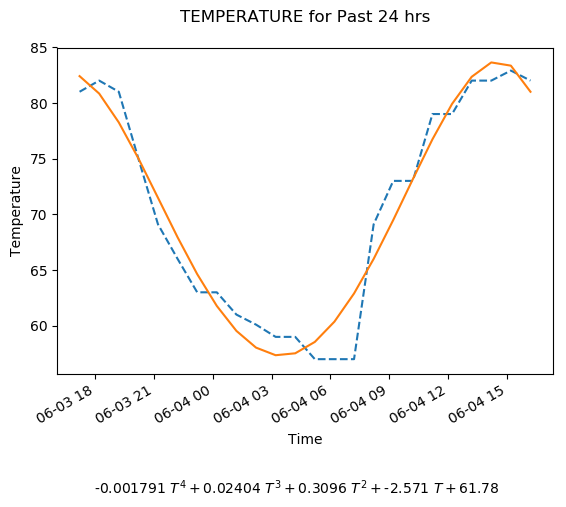
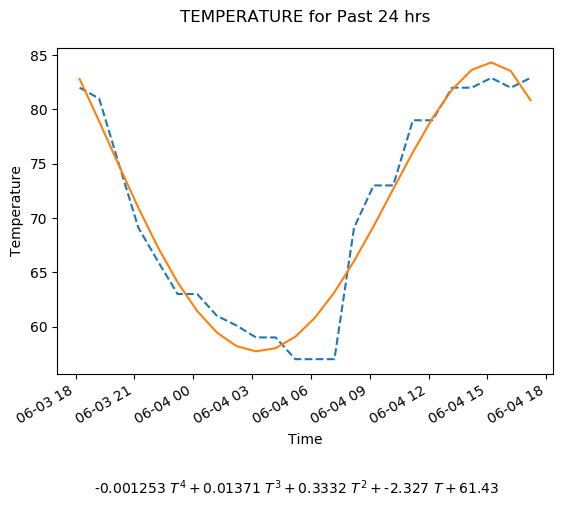
ff

diff --git a/NET/weather.html b/NET/weather.html
@@ -79,12 +79,12 @@ if (i<10)
 <h1><em><font color="darkblue">Weather at Carbondale</font></em></h1>
 <div id="txt"></div>
 <center class="big">Temperature: 
-82.0 
+82.9 
 °
 </center>
 <table><tr>
 <td align="left" class="x">
-<i>Current Weather: </i><img height="0" width="50"><b>A Few Clouds</b>
+<i>Current Weather: </i><img height="0" width="50"><b>Partly Cloudy</b>
 </td>
 <td><img src="WeathIcons/"></td>
 </tr></table>
@@ -94,19 +94,19 @@ if (i<10)
 <tr><td align="left" class="big">Date: 
 &#160;Jun 4</td></tr>
 <tr><td align="left" class="big">Time: 
-&#160;16:08:01</td></tr>
+&#160;17:08:01</td></tr>
 <tr><td align="left" class="big">Wind: 
-&#160;South at 11.5 MPH (10 KT)</td></tr>
+&#160;Southeast at 11.5 MPH (10 KT)</td></tr>
 <tr><td align="left" class="big">Visibility: 
 &#160;</td></tr>
 <tr><td align="left" class="big">Temperature: 
-&#160;82.0 F.</td></tr>
+&#160;82.9 F.</td></tr>
 <tr><td align="left" class="big">Dewpoint: 
-&#160;61.0 F.</td></tr>
+&#160;60.1 F.</td></tr>
 <tr><td align="left" class="big">Relative Humidity: 
-&#160;49%</td></tr>
+&#160;46%</td></tr>
 <tr><td align="left" class="big">Pressure: 
-&#160;30.09 inches</td></tr>
+&#160;30.07 inches</td></tr>
 <tr><td align="left" class="big">Heat Index: 
 &#160;83</td></tr>
 <tr><td align="left" class="big">Wind Chill: 
@@ -119,11 +119,11 @@ if (i<10)
 <td align="left" class="big">
 <b>Twenty-Four Hour Summary</b><p></p>
 <dl>
-<dt align="center">Temperature: μ = 70.50, 
-σ = 9.63</dt>
+<dt align="center">Temperature: μ = 70.58, 
+σ = 9.72</dt>
 <p></p>
-<dt align="center">Pressure: μ = 30.17,
-σ = 0.02</dt>
+<dt align="center">Pressure: μ = 30.16,
+σ = 0.03</dt>
 </dl>
 </td>
 </tr>

diff --git a/NET/DewPoint.html b/NET/DewPoint.html
@@ -39,7 +39,7 @@ black;width:35%;margin-left:auto;margin-right:auto;margin-bottom:5em
 
 <h2>Current</h2>
 
-<div id='c'><strong>Temp</strong> 82.0 F. <strong>Dew Point</strong> 61.0 F.</div>
+<div id='c'><strong>Temp</strong> 82.9 F. <strong>Dew Point</strong> 60.1 F.</div>
 
 
 <p><p/><br/><p/></p>
@@ -23122,6 +23122,11 @@ black;width:35%;margin-left:auto;margin-right:auto;margin-bottom:5em
 <td style="text-align:center;"> Thu Jun  4 16:08:04 2026 </td>
 <td style="text-align:center;"> 82.0 F. </td>
 <td style="text-align:center;"> 61.0 F.</td>
+</tr>
+<tr>
+<td style="text-align:center;"> Thu Jun  4 17:08:04 2026 </td>
+<td style="text-align:center;"> 82.9 F. </td>
+<td style="text-align:center;"> 60.1 F.</td>
 </tr>
 </tbody>
 </table>

diff --git a/WeatherNotes/fcast.html b/WeatherNotes/fcast.html
@@ -28,11 +28,11 @@
    <h2>Forecast for Jackson County</h2>
    <p>
       <div style="font-size:120%">
-         <h3>This Afternoon</h3>Partly sunny. High near 84, with temperatures falling to around 82 in the afternoon. South wind around 7 mph.<br></div>
+         <h3>This Afternoon</h3>Partly sunny. High near 84, with temperatures falling to around 81 in the afternoon. South wind around 5 mph.<br></div>
    </p>
    <p>
       <div style="font-size:120%">
-         <h3>Tonight</h3>Mostly cloudy. Low around 65, with temperatures rising to around 67 overnight. South wind 5 to 8 mph.<br></div>
+         <h3>Tonight</h3>Mostly cloudy. Low around 65, with temperatures rising to around 67 overnight. South wind around 6 mph.<br></div>
    </p>
    <p>
       <div style="font-size:120%">

diff --git a/NET/forecast.html b/NET/forecast.html
@@ -21,7 +21,7 @@
 <i> National Weather Service <br> Paducah, Kentucky</i>
 </center>
 <br><center>
-412 PM CDT Thu Jun 4  2026
+512 PM CDT Thu Jun 4  2026
 </center>
 
 		<entry><p></p>

diff --git a/WeatherNotes/fcast.md b/WeatherNotes/fcast.md
@@ -2,11 +2,11 @@
    <h2>Forecast for Jackson County</h2>
    <p>
       <div style="font-size:120%">
-         <h3>This Afternoon</h3>Partly sunny. High near 84, with temperatures falling to around 82 in the afternoon. South wind around 7 mph.<br></div>
+         <h3>This Afternoon</h3>Partly sunny. High near 84, with temperatures falling to around 81 in the afternoon. South wind around 5 mph.<br></div>
    </p>
    <p>
       <div style="font-size:120%">
-         <h3>Tonight</h3>Mostly cloudy. Low around 65, with temperatures rising to around 67 overnight. South wind 5 to 8 mph.<br></div>
+         <h3>Tonight</h3>Mostly cloudy. Low around 65, with temperatures rising to around 67 overnight. South wind around 6 mph.<br></div>
    </p>
    <p>
       <div style="font-size:120%">

diff --git a/NET/DewPoint.md b/NET/DewPoint.md
@@ -25,7 +25,7 @@ black;width:35%;margin-left:auto;margin-right:auto;margin-bottom:5em
 <p/><br/><p/>
 
 ## Current
-<div id='c'><strong>Temp</strong> 82.0 F. <strong>Dew Point</strong> 61.0 F.</div>
+<div id='c'><strong>Temp</strong> 82.9 F. <strong>Dew Point</strong> 60.1 F.</div>
 
 <p/><br/><p/>
 
@@ -4649,3 +4649,4 @@ black;width:35%;margin-left:auto;margin-right:auto;margin-bottom:5em
 | Thu Jun  4 14:08:04 2026 | 82.0 F. | 60.1 F.|
 | Thu Jun  4 15:08:05 2026 | 82.9 F. | 60.1 F.|
 | Thu Jun  4 16:08:04 2026 | 82.0 F. | 61.0 F.|
+| Thu Jun  4 17:08:04 2026 | 82.9 F. | 60.1 F.|